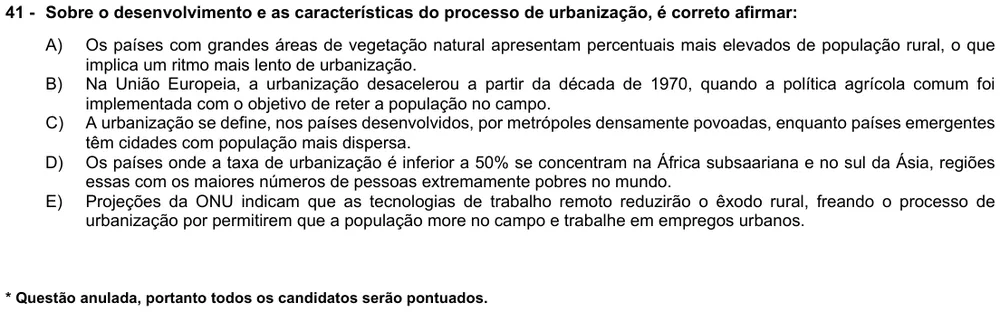
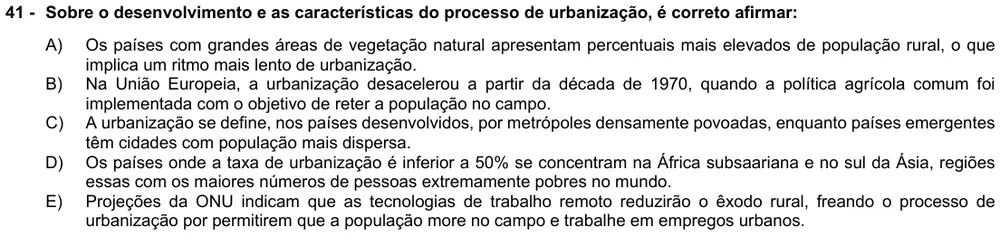
Geografia: pendentes resolvidas e 21 reclassificações apontadas pela sessão de Geografia
- UFPR 2025 q41 (Pe9cc0b8f) não foi anulada: o rodapé "Questão anulada" da página 11 é da q39;
  rodapé tirado do print e do texto, volta à fila de Geografia
- P1da9dba8 -> fs S05.5; Pfc161343 -> his H05.6; Pd1aeb2d4 -> bio B10.2; P1c6ab745 -> bio B10.5
- 17 trocas de conteúdo dentro de Geografia; códigos de equívoco das resoluções acompanham
- registro em docs/provas/reclassificacoes.md

Claude-Session: https://claude.ai/code/session_01PveEKWW3t7ZxcdDQKNiYWa

diff --git a/docs/provas/reclassificacoes.md b/docs/provas/reclassificacoes.md
@@ -37,3 +37,24 @@
 | 2026-11-12 | P7fdd516a | pucrio-2025 q3 | ing I01.3 | ing I02.1 sentido da palavra no contexto e sinônimos | Sentido de "polarizing" no parágrafo 2: vocabulário; apontada pelo conferente do ing-0042 |
 | 2026-11-12 | Pb3fb6a0c | pucrio-2027 q2 | ing I01.3 | ing I02.1 sentido da palavra no contexto e sinônimos | Sentido de "in defiance of obsolescence" no parágrafo 1: vocabulário; apontada pelo conferente do ing-0042 |
 | 2026-11-12 | Pf5ae1786 | pucrio-2027 q4 | ing I01.3 | ing I02.1 sentido da palavra no contexto e sinônimos | Sentido de "hard to tamper with" no parágrafo 3: vocabulário; apontada pelo conferente do ing-0042 |
+| 2026-11-12 | P1da9dba8 | unesp-2025-2 q46 | geo G07.4 | fs S05.5 violência, segurança pública e sistema prisional | Reincidência prisional sob o viés da cidadania e dos direitos humanos: Sociologia, sem conteúdo de Geografia urbana (estava no bloco de Geografia da prova); pendente do geo-0023, apontada pela sessão de Geografia |
+| 2026-11-12 | Pfc161343 | uel-2021 q33 | geo G07.4 | his H05.6 Estado Novo e trabalhismo | Ocupação do Norte do Paraná: pacto de 1939, topônimos do entreguerras e troca de nomes germânicos no Estado Novo; quatro das cinco afirmativas são de História; pendente do geo-0023, apontada pela sessão de Geografia |
+| 2026-11-12 | Pd1aeb2d4 | uel-2025 q54 | geo G07.4 | bio B10.2 bacterioses e resistência bacteriana | Epidemia de cólera: Vibrio cholerae (parede celular, transmissão, sintomas) nas afirmativas I e III; as outras duas são de reforma urbana (Haussmann); o centro da questão é a doença; pendente do geo-0023, apontada pela sessão de Geografia |
+| 2026-11-12 | P0ec231f5 | famerp-2021 q33 | geo G07.2 | geo G06.3 migrações internacionais e refugiados | Xenofobia contra a comunidade amarela na pandemia; não é rede urbana; apontada pelo conferente de Geografia; códigos de equívoco da resolução trocados para G06.3 |
+| 2026-11-12 | Pade3af2e | upe-ssa3-2021 q89 | geo G07.3 | geo G07.5 mobilidade e ambiente urbano | Problemas ambientais urbanos; a correta é o transporte rodoviário; apontada pelo conferente de Geografia; códigos de equívoco trocados para G07.5 |
+| 2026-11-12 | Pb61523eb | acafe-2021-verao q60 | geo G07.3 | geo G06.1 conceitos e indicadores demográficos | Distribuição da população, país populoso × povoado (densidade); apontada pelo conferente de Geografia; códigos de equívoco trocados para G06.1 |
+| 2026-11-12 | Pb4ca9209 | uece-2025-2 q34 | geo G07.2 | geo G07.4 problemas urbanos: segregação, favelização e gentrificação | Shopping centers como espaço privado que reproduz desigualdades urbanas; apontada pelo conferente de Geografia; códigos de equívoco trocados para G07.4 |
+| 2026-11-12 | P205d4814 | acafe-2021-inverno q58 | geo G07.4 | geo G07.3 urbanização brasileira e êxodo rural | Tendências atuais da urbanização brasileira (especulação, autossegregação, cidades médias); apontada pelo conferente de Geografia |
+| 2026-11-12 | Pa1e0dc5a | santacasa-2021 q34 | geo G08.1 | geo G08.4 agricultura familiar e agroecologia | Mapas de estabelecimentos com mão de obra familiar × assalariada; apontada pelo conferente de Geografia |
+| 2026-11-12 | Pdb484aa1 | famerp-2023 q33 | geo G07.4 | geo G12.4 resíduos sólidos, reciclagem e saneamento | Esgoto gerado, coletado e tratado por Grande Região (saneamento); apontada pela sessão de Geografia; códigos de equívoco trocados para G12.4 |
+| 2026-11-12 | P3a8370bb | uece-2020-2-f2 q137 | geo G07.4 | geo G13.1 conceitos-chave (território) | Territórios do narcotráfico como relação de poder e domínio: conceito de território; apontada pela sessão de Geografia; códigos de equívoco trocados para G13.1 |
+| 2026-11-12 | P88278dba | unesp-2026 q45 | geo G08.3 | geo G07.2 rede urbana, hierarquia e cidades globais | Moeda social e banco comunitário no bairro (circuito local da economia urbana); não é agronegócio; apontada pela sessão de Geografia |
+| 2026-11-12 | P1cc12c31 | acafe-2023-inverno q58 | geo G07.5 | geo G12.5 desertificação e degradação ambiental | Degradação ambiental e saúde (perda de habitat, zoonoses, criadouros de arboviroses); apontada pela sessão de Geografia |
+| 2026-11-12 | Pdae6f7cd | acafe-2026-verao q63 | geo G06.6 | geo G01.6 mapas temáticos e anamorfoses | Anamorfose de casos de covid-19 (três das quatro afirmativas são de cartografia); apontada no geo-0021; códigos de equívoco trocados para G01.6 |
+| 2026-11-12 | Pd6a88abb | udesc-2025-1 q98 | geo G07.1 | geo G09.3 industrialização brasileira e desconcentração industrial | Mapa das áreas com concentração industrial no Brasil; apontada no geo-0021; códigos de equívoco trocados para G09.3 |
+| 2026-11-12 | Pba4da681 | acafe-2023-inverno q60 | geo G06.6 | geo G12.4 resíduos sólidos, reciclagem e saneamento | Surto de dengue: falta de saneamento e especulação imobiliária favorecem os focos do Aedes; não é IDH; apontada no geo-0021; códigos de equívoco trocados para G12.4 |
+| 2026-11-12 | Pf330f64b | acafe-2023-verao q62 | geo G06.6 | geo G13.1 conceitos-chave: espaço, lugar, região, paisagem, território e rede | Contribuição da ciência geográfica (análise espacial, mapas) para entender a pandemia; não é indicador social; apontada no geo-0021; códigos de equívoco trocados para G13.1 |
+| 2026-11-12 | P55aee17f | unicamp-2021-exh q67 | geo G07.2 | geo G07.5 mobilidade e ambiente urbano | Infraestruturas urbanas ocultas (dutos, fios, servidores) que sustentam a vida na cidade; não é hierarquia urbana; apontada no geo-0021; códigos de equívoco trocados para G07.5 |
+| 2026-11-12 | P06cab07e | unesp-2026 q44 | geo G06.6 | geo G10.2 Divisão Internacional do Trabalho, desenvolvimento e comércio | Charge sobre a desigual DIT e o valor agregado dos produtos; apontada no geo-0020; códigos de equívoco trocados para G10.2 |
+| 2026-11-12 | Pd231588d | uece-2022-1-f2 q125 | geo G06.5 | geo G07.3 urbanização brasileira e êxodo rural | Urbanização concentrada e macrocefalia urbana herdada do período colonial; apontada no geo-0020; códigos de equívoco trocados para G07.3 |
+| 2026-11-12 | P1c6ab745 | unesp-2026-2 q62 | geo G06.6 | bio B10.5 profilaxia, saneamento, imunização e ISTs | Volta do sarampo endêmico pela queda da cobertura vacinal (está entre as questões de Biologia da prova); apontada no geo-0020; a resolução aprovada fica em resolucoes-geo.json (como P0bbb2260), códigos de equívoco trocados para B10.5; falta a resolução animada exigida em Biologia |

diff --git a/docs/resolucoes/lotes-geo.md b/docs/resolucoes/lotes-geo.md
@@ -1,6 +1,6 @@
 # Geografia: resoluções (gerado por lote.py em 2026-11-12)
 
-Faltam 1731 questões sem resolução (fora as que estão em lote, pendentes ou com divergência): ENEM nível 1-6 0; provas-alvo nível 1-6 556; demais nível 1-6 1014; ENEM nível 7-10 21; provas-alvo nível 7-10 91; demais nível 7-10 49.
+Faltam 1779 questões sem resolução (fora as que estão em lote, pendentes ou com divergência): ENEM nível 1-6 0; provas-alvo nível 1-6 604; demais nível 1-6 1014; ENEM nível 7-10 21; provas-alvo nível 7-10 91; demais nível 7-10 49.
 
 ## Lotes
 
@@ -31,16 +31,13 @@ Faltam 1731 questões sem resolução (fora as que estão em lote, pendentes ou 
 | geo-0023 | provas-alvo nível 1-6 | 30 | gravado | 27 | 3 | 0 |
 | geo-0024 | provas-alvo nível 1-6 | 30 | gravado | 30 | 0 | 0 |
 | geo-0025 | provas-alvo nível 1-6 | 30 | aberto |  |  |  |
+| geo-0026 | provas-alvo nível 1-6 | 30 | aberto |  |  |  |
 
 ## Pendentes (falta de certeza absoluta)
 
 | Questão | Prova | Conteúdo | Motivo |
 |---|---|---|---|
-| Pfc161343 | UEL 2021 Fase única · questão 33 | G07.4 problemas urbanos: segregação, favelização e gentrificação (tema G07 Urbanização) | classificação: é de História (pacto de 1939, Estado Novo e a guerra, ocupação do Norte do Paraná; quatro das cinco afirmativas são de História) |
-| Pd1aeb2d4 | UEL 2025 1ª fase · questão 54 | G07.4 problemas urbanos: segregação, favelização e gentrificação (tema G07 Urbanização) | classificação: é de Biologia (bactéria da cólera, transmissão e sintomas em duas das quatro afirmativas; as outras duas são de História, reforma de Haussmann) |
 | Pfcc1eb63 | UERJ 2026 2º Exame de Qualificação · questão 46 | G02.2 tectônica de placas, sismos e vulcanismo (tema G02 Relevo e estrutura da Terra) | classificação: é de Física (UERJ 2026, 2º Exame de Qualificação, questão 46: ordem de grandeza da razão entre duas energias, 7,9 × 10¹⁵ J e 2,0 × 10¹² J; a razão é 3,95 × 10³ e a resposta oficial é B, 10⁴). O terremoto é só o contexto; não há conteúdo de Geografia a resolver. Está classificada em Geografia, G02.2. |
-| Pe9cc0b8f | UFPR 2025 1ª fase · questão 41 | G07.1 urbanização mundial e metropolização (tema G07 Urbanização) | anulada pela banca: a entrada traz, depois das alternativas, o aviso “Questão anulada, portanto todos os candidatos serão pontuados”; questão anulada fica fora (princípio 2) |
-| P1da9dba8 | Unesp 2025 1ª fase – meio de ano · questão 46 | G07.4 problemas urbanos: segregação, favelização e gentrificação (tema G07 Urbanização) | classificação: é de Sociologia (reincidência prisional, cidadania e direitos humanos; sem conteúdo de Geografia urbana) |
 
 ## Divergências de gabarito (o dono decide)
 
